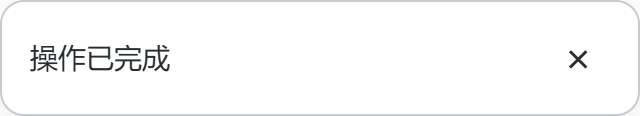
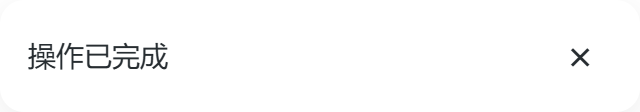
Refine component appearance and add page jump with total page count

diff --git a/pagination/pagination.js b/pagination/pagination.js
@@ -6,8 +6,8 @@
     const pageSize = Number(element.dataset.pageSize ?? 10);
     const requested = Number(element.dataset.page ?? 1);
     if (!Number.isSafeInteger(total) || total < 0 || !Number.isSafeInteger(pageSize) || pageSize < 1 || !Number.isSafeInteger(requested)) throw new TypeError('分页参数须为有效整数');
-    const pages = Math.max(1, Math.ceil(total / pageSize));
-    const page = Math.min(pages, Math.max(1, requested));
+    const pages = Math.ceil(total / pageSize);
+    const page = Math.min(Math.max(1, pages), Math.max(1, requested));
     element.dataset.page = String(page);
     return { total, pageSize, page, pages };
   }
@@ -24,7 +24,7 @@
     }
     button('‹', state.page - 1, state.page === 1 || !state.total);
     let pages;
-    if (state.pages <= 5) pages = Array.from({ length:state.pages }, (_, i) => i + 1);
+    if (state.pages <= 5) pages = Array.from({ length:Math.max(1, state.pages) }, (_, i) => i + 1);
     else {
       const start = Math.max(2, Math.min(state.page - 1, state.pages - 3));
       pages = [1, start, start + 1, start + 2, state.pages];
@@ -37,7 +37,51 @@
       button(String(page), page, !state.total, page === state.page); previous = page;
     });
     button('›', state.page + 1, state.page === state.pages || !state.total);
+    const total = document.createElement('span');
+    total.className = 'ui-pagination__total';
+    total.textContent = '共 ' + state.pages + ' 页';
+    const jump = document.createElement('span');
+    jump.className = 'ui-pagination__jump';
+    const label = document.createElement('label');
+    label.className = 'ui-pagination__jump-label';
+    const input = document.createElement('input');
+    input.className = 'ui-pagination__input'; input.type = 'number';
+    input.min = '1'; input.max = String(Math.max(1, state.pages)); input.step = '1';
+    input.value = String(state.page); input.disabled = !state.total;
+    input.setAttribute('aria-label', '跳转页码');
+    input.setAttribute('inputmode', 'numeric');
+    input.setAttribute('enterkeyhint', 'go');
+    label.append('跳至', input, '页');
+    const go = document.createElement('button');
+    go.type = 'button'; go.className = 'ui-pagination__button';
+    go.dataset.pageJump = ''; go.textContent = '跳转'; go.disabled = !state.total;
+    jump.append(label, go);
+    const feedback = document.createElement('span');
+    feedback.className = 'ui-pagination__feedback'; feedback.setAttribute('role', 'status');
+    element.append(total, jump, feedback);
     return state;
+  }
+  function move(element, next) {
+    const state = read(element);
+    if (next === state.page) return;
+    element.dataset.page = String(next);
+    const updated = refresh(element);
+    element.querySelector('[aria-current="page"]')?.focus();
+    element.dispatchEvent(new CustomEvent('ui:page-change', { bubbles:true, detail:updated }));
+  }
+  function jump(element) {
+    const input = element.querySelector('.ui-pagination__input');
+    if (!input || input.disabled) return;
+    const state = read(element);
+    const next = Number(input.value);
+    const feedback = element.querySelector('.ui-pagination__feedback');
+    if (!input.value.trim() || !Number.isSafeInteger(next) || next < 1 || next > state.pages || !input.validity.valid) {
+      input.setAttribute('aria-invalid', 'true');
+      feedback.textContent = '请输入 1 至 ' + state.pages + ' 的整数页码';
+      input.focus(); return;
+    }
+    input.removeAttribute('aria-invalid'); feedback.textContent = '';
+    move(element, next);
   }
   function init(root = document) {
     const elements = root.matches?.('[data-ui-pagination]') ? [root] : root.querySelectorAll('[data-ui-pagination]');
@@ -45,14 +89,19 @@
       if (ready.has(element)) return;
       refresh(element); ready.add(element);
       element.addEventListener('click', event => {
+        if (event.target instanceof Element && event.target.closest('[data-page-jump]')) { jump(element); return; }
         const button = event.target instanceof Element ? event.target.closest('button[data-page]') : null;
         if (!button || button.disabled || !element.contains(button)) return;
-        const state = read(element); const next = Number(button.dataset.page);
-        if (next === state.page) return;
-        element.dataset.page = String(next);
-        const updated = refresh(element);
-        element.querySelector('[aria-current="page"]')?.focus();
-        element.dispatchEvent(new CustomEvent('ui:page-change', { bubbles:true, detail:updated }));
+        move(element, Number(button.dataset.page));
+      });
+      element.addEventListener('keydown', event => {
+        if (event.key === 'Enter' && event.target instanceof Element && event.target.matches('.ui-pagination__input')) { event.preventDefault(); jump(element); }
+      });
+      element.addEventListener('input', event => {
+        if (event.target instanceof Element && event.target.matches('.ui-pagination__input')) {
+          event.target.removeAttribute('aria-invalid');
+          element.querySelector('.ui-pagination__feedback').textContent = '';
+        }
       });
     });
   }

diff --git a/toast/toast.css b/toast/toast.css
@@ -1,7 +1,7 @@
 .ui-toast-trigger { padding:9px 18px; min-height:40px; border:1px solid #adb4b9; border-radius:9999px; background:transparent; color:inherit; font:inherit; cursor:pointer; }
 .ui-toast-trigger:focus-visible, .ui-toast__close:focus-visible { outline:2px solid var(--ui-toast-focus, #747b80); outline-offset:2px; }
 .ui-toast-region { position:fixed; z-index:10000; right:16px; bottom:16px; display:grid; gap:10px; width:320px; max-width:calc(100% - 32px); pointer-events:none; }
-.ui-toast { display:flex; align-items:center; gap:12px; box-sizing:border-box; padding:12px 14px; border:1px solid var(--ui-toast-border, #c6ccd0); border-radius:12px; background:var(--ui-toast-bg, #fff); color:var(--ui-toast-color, #272d31); box-shadow:0 4px 16px #00000012; font:inherit; line-height:1.5; pointer-events:auto; }
+.ui-toast { display:flex; align-items:center; gap:12px; box-sizing:border-box; padding:12px 14px; border:0; border-radius:12px; background:var(--ui-toast-bg, #fff); color:var(--ui-toast-color, #272d31); box-shadow:0 4px 16px #00000012; font:inherit; line-height:1.5; pointer-events:auto; }
 .ui-toast__message { flex:1; min-width:0; overflow-wrap:anywhere; }
 .ui-toast__close { display:inline-flex; justify-content:center; align-items:center; flex-shrink:0; width:32px; height:32px; padding:0; border:0; border-radius:6px; background:transparent; color:inherit; font:inherit; font-size:20px; cursor:pointer; }
 @media(pointer:coarse) { .ui-toast__close { width:44px; height:44px; } }

diff --git a/confirm-dialog/confirm-dialog.css b/confirm-dialog/confirm-dialog.css
@@ -1,7 +1,7 @@
 .ui-confirm-trigger, .ui-confirm__button { box-sizing:border-box; padding:9px 18px; min-height:40px; border:1px solid var(--ui-confirm-border, #adb4b9); border-radius:9999px; background:var(--ui-confirm-button-bg, transparent); color:var(--ui-confirm-color, inherit); font:inherit; cursor:pointer; }
 .ui-confirm-trigger:focus-visible, .ui-confirm__button:focus-visible { outline:2px solid var(--ui-confirm-focus, #747b80); outline-offset:3px; }
 .ui-confirm-trigger:disabled, .ui-confirm__button:disabled { opacity:.5; cursor:not-allowed; }
-.ui-confirm { box-sizing:border-box; width:360px; max-width:calc(100% - 32px); max-height:calc(100% - 32px); overflow:auto; padding:24px; border:1px solid var(--ui-confirm-border, #c6ccd0); border-radius:16px; background:var(--ui-confirm-bg, #fff); color:var(--ui-confirm-color, #272d31); font:inherit; }
+.ui-confirm { box-sizing:border-box; width:360px; max-width:calc(100% - 32px); max-height:calc(100% - 32px); overflow:auto; padding:24px; border:1px solid var(--ui-confirm-border, #c6ccd0); border-radius:0; background:var(--ui-confirm-bg, #fff); color:var(--ui-confirm-color, #272d31); font:inherit; }
 .ui-confirm::backdrop { background:var(--ui-confirm-backdrop, #0006); }
 .ui-confirm__title { margin:0 0 8px; font-size:18px; }
 .ui-confirm__description { margin:0; line-height:1.6; overflow-wrap:anywhere; }

diff --git a/pagination/pagination.css b/pagination/pagination.css
@@ -4,4 +4,14 @@
 .ui-pagination__button:focus-visible { outline:2px solid var(--ui-pagination-focus, #747b80); outline-offset:2px; }
 .ui-pagination__button:disabled { opacity:.4; cursor:not-allowed; }
 .ui-pagination__ellipsis { padding:0 2px; }
+.ui-pagination__total { white-space:nowrap; margin:0 4px; }
+.ui-pagination__jump { display:inline-flex; align-items:center; flex-wrap:wrap; gap:6px; max-width:100%; }
+.ui-pagination__jump-label { display:inline-flex; align-items:center; gap:6px; white-space:nowrap; }
+.ui-pagination__input { box-sizing:border-box; width:64px; min-width:0; height:32px; padding:0 8px; border:1px solid var(--ui-pagination-border, #c6ccd0); border-radius:9999px; background:var(--ui-pagination-bg, transparent); color:inherit; font:inherit; text-align:center; }
+.ui-pagination__input:focus-visible { outline:2px solid var(--ui-pagination-focus, #747b80); outline-offset:2px; }
+.ui-pagination__input:disabled { opacity:.4; cursor:not-allowed; }
+.ui-pagination__input[aria-invalid="true"] { border-style:dashed; }
+.ui-pagination__feedback { flex-basis:100%; font-size:12px; }
+.ui-pagination__feedback:empty { display:none; }
 @media(pointer:coarse) { .ui-pagination__button { min-width:44px; height:44px; } }
+@media(pointer:coarse) { .ui-pagination__input { height:44px; font-size:16px; } }

diff --git a/toggle-switch/index.html b/toggle-switch/index.html
@@ -6,4 +6,4 @@ main { max-width:540px; margin:0 auto; padding:32px 20px; }
 h1 { font-size:24px; margin:0 0 24px; }
 .preview { width:fit-content; max-width:388px; padding:8px; box-sizing:border-box; }
 .demo-status { color:#656d73; min-height:1.6em; }
-</style></head><body><main><h1>开关</h1><div class="preview"><label class="ui-toggle"><input class="ui-toggle__control" type="checkbox" role="switch" name="notifications"><span>启用通知</span></label></div></main></body></html>
+</style></head><body><main><h1>开关</h1><div class="preview"><label class="ui-toggle"><input class="ui-toggle__control" type="checkbox" role="switch" name="notifications" aria-label="启用通知"></label></div></main></body></html>

diff --git a/checkbox/index.html b/checkbox/index.html
@@ -6,4 +6,4 @@ main { max-width:540px; margin:0 auto; padding:32px 20px; }
 h1 { font-size:24px; margin:0 0 24px; }
 .preview { width:fit-content; max-width:388px; padding:8px; box-sizing:border-box; }
 .demo-status { color:#656d73; min-height:1.6em; }
-</style></head><body><main><h1>复选框</h1><div class="preview"><label class="ui-checkbox"><input class="ui-checkbox__control" type="checkbox" name="selected" checked><span>选择此项</span></label></div></main></body></html>
+</style></head><body><main><h1>复选框</h1><div class="preview"><label class="ui-checkbox"><input class="ui-checkbox__control" type="checkbox" name="selected" aria-label="选择此项" checked></label></div></main></body></html>

diff --git a/checkbox/checkbox.css b/checkbox/checkbox.css
@@ -1,5 +1,5 @@
 /* 独立复选框，支持 checked、disabled 与原生 indeterminate。 */
-.ui-checkbox { display:inline-flex; align-items:center; gap:10px; min-height:44px; font:inherit; color:inherit; cursor:pointer; }
+.ui-checkbox { display:inline-flex; align-items:center; justify-content:center; gap:10px; min-width:44px; min-height:44px; font:inherit; color:inherit; cursor:pointer; }
 .ui-checkbox__control {
   appearance:none; -webkit-appearance:none; display:grid; place-content:center;
   box-sizing:border-box; flex-shrink:0; width:18px; height:18px; margin:0;

diff --git a/toggle-switch/toggle-switch.css b/toggle-switch/toggle-switch.css
@@ -1,5 +1,5 @@
 /* 独立开关，使用原生 checkbox 的 checked、disabled 和 change。 */
-.ui-toggle { display:inline-flex; align-items:center; gap:10px; min-height:44px; color:inherit; font:inherit; cursor:pointer; }
+.ui-toggle { display:inline-flex; align-items:center; justify-content:center; gap:10px; min-width:44px; min-height:44px; color:inherit; font:inherit; cursor:pointer; }
 .ui-toggle__control {
   appearance:none; -webkit-appearance:none; position:relative; flex-shrink:0;
   box-sizing:border-box; width:40px; height:24px; margin:0;

diff --git a/pagination/README.md b/pagination/README.md
@@ -1,6 +1,10 @@
 # 分页
 
-引入本目录 CSS 和 JS。data-total 是总条数，data-page-size 是每页条数，data-page 从 1 开始。监听 ui:page-change，event.detail 包含 page、pageSize、total、pages；业务方据此请求数据。修改 data-total 或 data-page-size 后调用 UiPagination.refresh(element)，页码会自动收敛到有效范围。动态插入新组件后调用 UiPagination.init(element)。refresh 不触发切页事件；当前页重复点击不触发事件。零条数据时显示禁用的第 1 页和前后按钮。
+引入本目录 CSS 和 JS。data-total 是总条数，data-page-size 是每页条数，data-page 从 1 开始。组件显示“共 X 页”，支持页码按钮、上一页/下一页，以及输入页码后点击“跳转”或按 Enter。
+
+页码必须为 1 到总页数之间的整数。空值、小数、负数或超过总页数会显示提示，不执行切页。零条数据时显示“共 0 页”，第 1 页、前后按钮和跳页输入均禁用。
+
+监听 ui:page-change，event.detail 包含 page、pageSize、total、pages；业务方据此请求数据。修改 data-total 或 data-page-size 后调用 UiPagination.refresh(element)，总页数同步更新，当前页码自动收敛到有效范围。动态插入新组件后调用 UiPagination.init(element)。refresh 不触发切页事件；跳转到当前页不触发事件。布局空间不足时自动换行。
 
 ## 引入
 

diff --git a/toast/README.md b/toast/README.md
@@ -1,5 +1,7 @@
 # 消息提示
 
+消息卡片无边框，保留轻微阴影。
+
 引入本目录 CSS 和 JS 后调用 UiToast.show("操作已完成")。默认 4000ms 自动关闭，鼠标悬停或键盘焦点进入消息时暂停倒计时，离开后继续。UiToast.show("请检查输入", { duration:0 }) 可保持显示直到关闭。返回 { close, element }，可主动调用 close()。文本使用 textContent 渲染，支持读屏提示，不自动抢焦点。触发按钮只是演示，业务中可在任意操作完成后调用 API。
 
 ## 引入
@@ -12,6 +14,6 @@
 
 ## 配色
 
-默认中性配色，按项目覆盖 CSS 变量：--ui-toast-bg / --ui-toast-color / --ui-toast-border / --ui-toast-focus（建议定义在 :root 或 body 上，提示容器挂载在 body）。
+默认中性配色，按项目覆盖 CSS 变量：--ui-toast-bg / --ui-toast-color / --ui-toast-focus（建议定义在 :root 或 body 上，提示容器挂载在 body）。
 
 [打开独立演示](index.html)

diff --git a/checkbox/README.md b/checkbox/README.md
@@ -1,12 +1,14 @@
 # 复选框
 
+默认只显示选择框，不显示旁边文字。`aria-label` 为读屏软件保留名称，接入时改为对应选项名称。
+
 只需要 CSS；通过 checked、disabled 控制状态。监听 change 读取 event.target.checked；半选状态通过 input.indeterminate = true 设置，HTML 属性不能代替此属性。
 
 ## 引入
 
 ```html
 <link rel="stylesheet" href="checkbox/checkbox.css">
-<label class="ui-checkbox"><input class="ui-checkbox__control" type="checkbox" name="selected" checked><span>选择此项</span></label>
+<label class="ui-checkbox"><input class="ui-checkbox__control" type="checkbox" name="selected" aria-label="选择此项" checked></label>
 ```
 
 ## 配色
